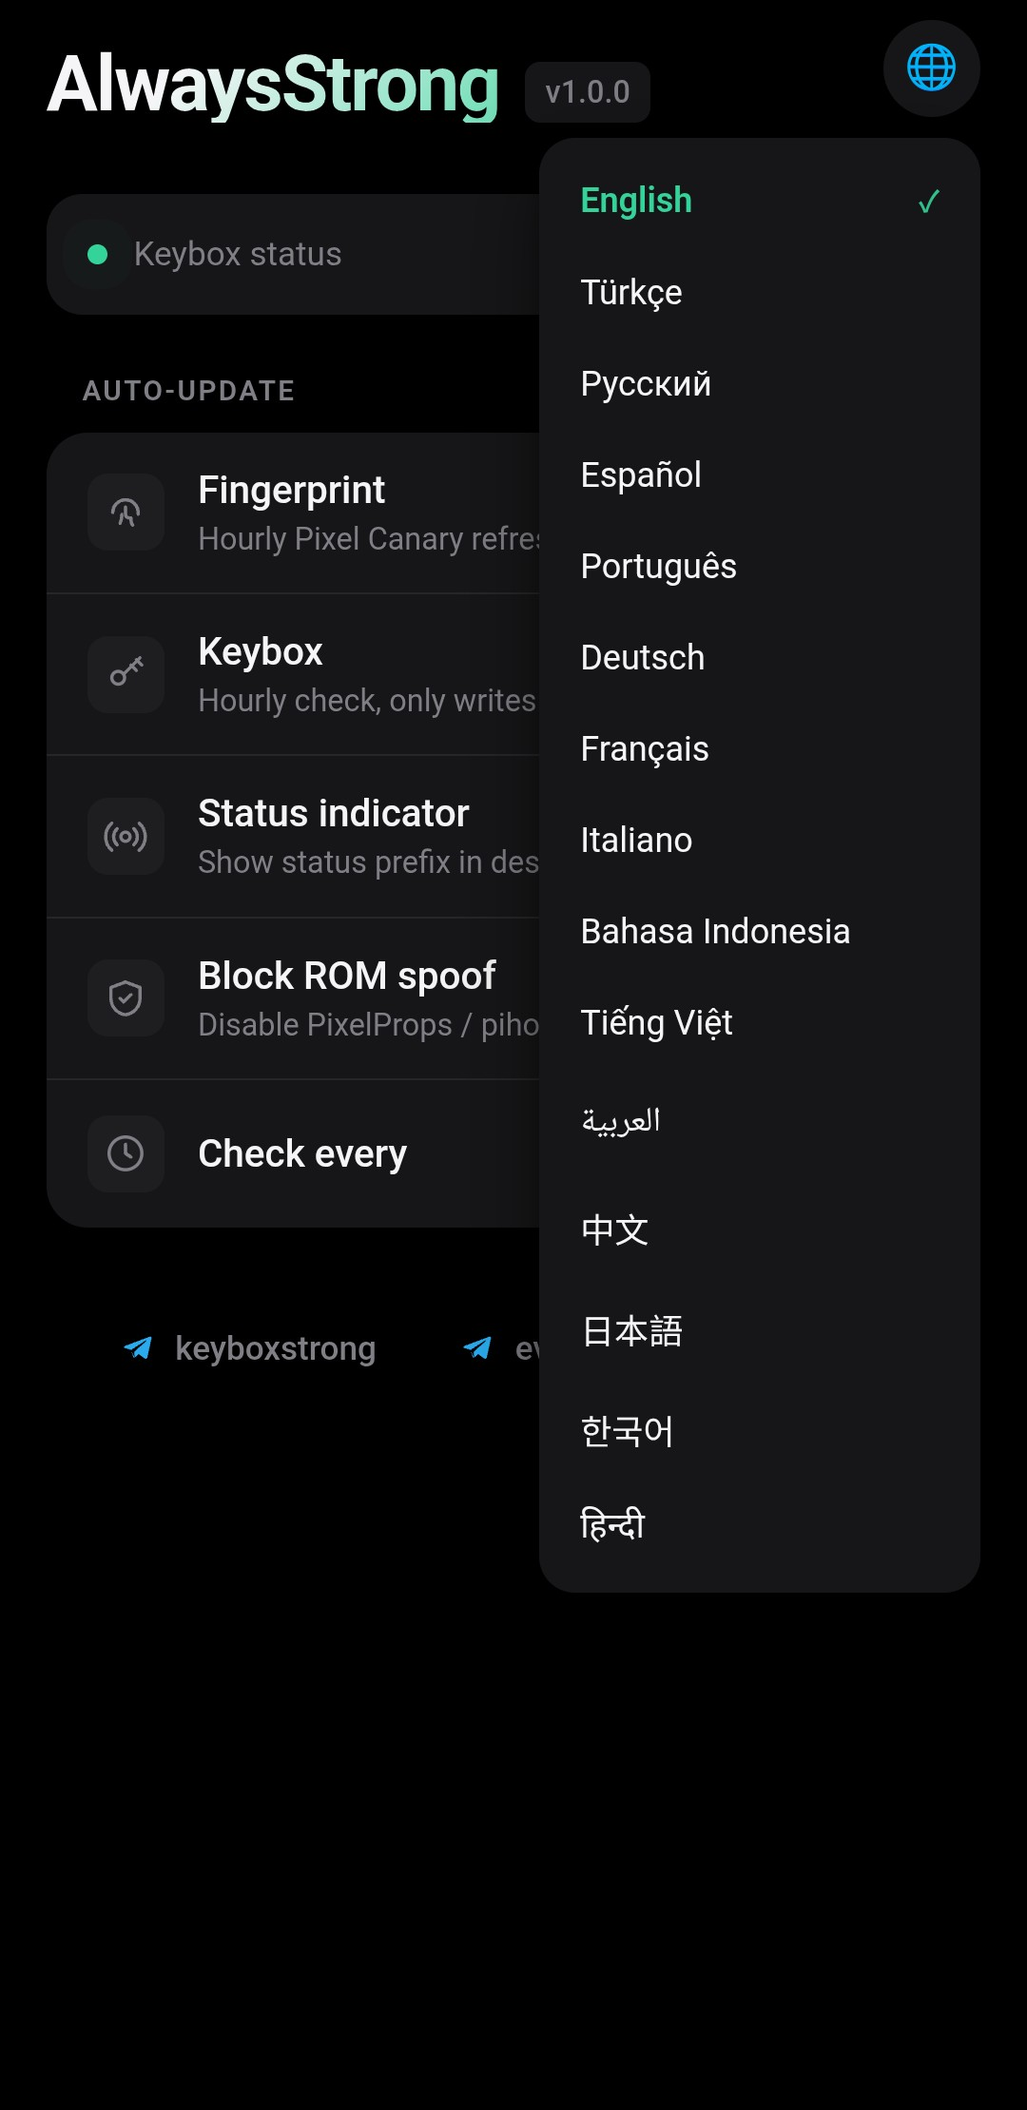
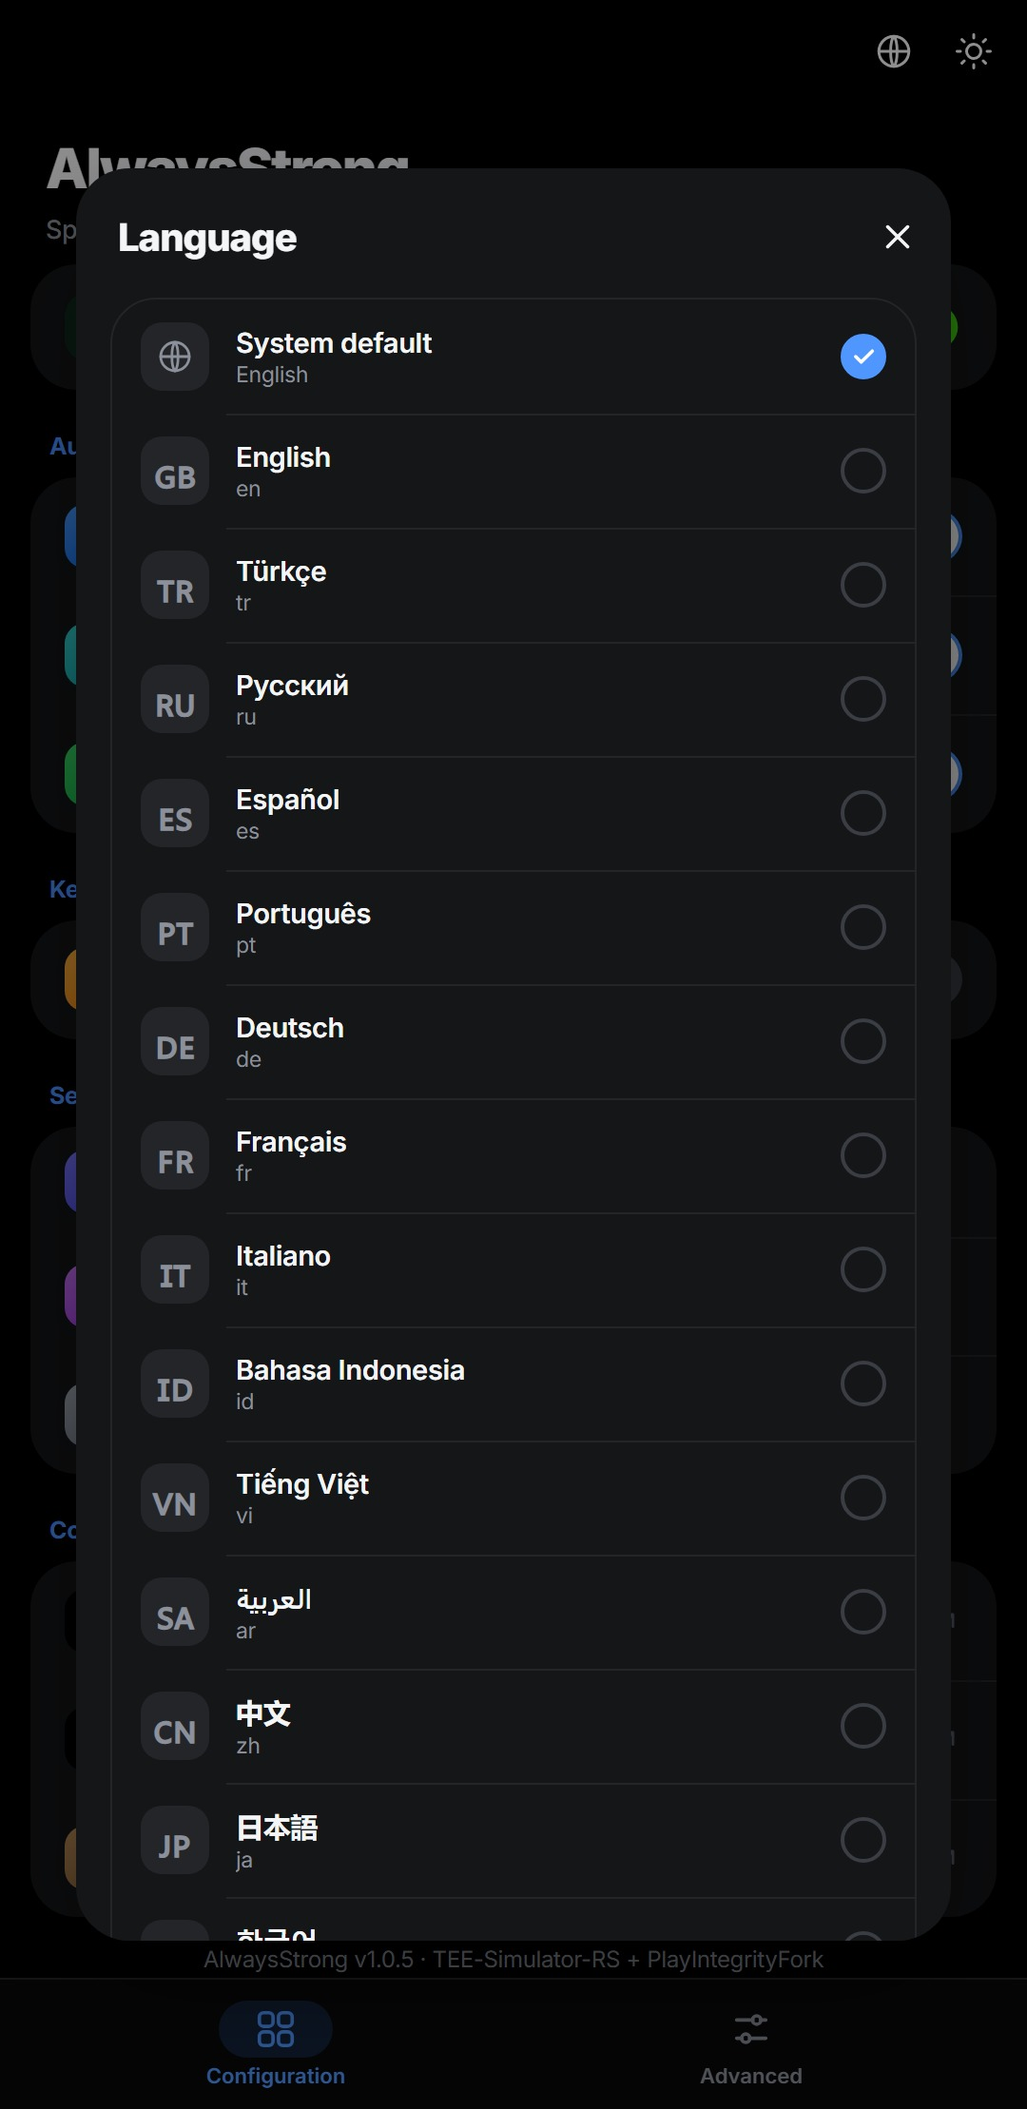
release: add v1.0.5 new-ui and upstream changelog entries, refresh screenshots, drop the one-ui naming

diff --git a/module/webroot/index.html b/module/webroot/index.html
@@ -3,14 +3,14 @@
 <head>
 <meta charset="utf-8">
 <meta name="viewport" content="width=device-width,initial-scale=1,viewport-fit=cover">
-<title>AlwaysStrong One UI</title>
+<title>AlwaysStrong</title>
 <meta name="claude:viewport-fit-sides" content="cover">
 <link rel="preconnect" href="https://fonts.googleapis.com">
 <link rel="preconnect" href="https://fonts.gstatic.com" crossorigin>
 <link rel="stylesheet" href="https://fonts.googleapis.com/css2?family=Inter:wght@400;500;600;700;800;900&display=swap">
 <style>
-/* One UI 7 language, refined (smaller, iOS/One-UI proportions): a collapsing
-   title, a search pill, iOS colour tiles, airy grouped cards, a bottom bar, a
+/* New design, refined (smaller, compact proportions): a collapsing
+   title, a search pill, colour tiles, airy grouped cards, a bottom bar, a
    Target-apps screen with a 3-dot menu that holds Security patch. No color-mix. */
 :root{
   --bg:#f2f3f5; --card:#fff; --field:#eceef2; --press:#00000008;
@@ -167,7 +167,7 @@ section[hidden]{display:none}
 .toast.show{opacity:1;transform:translateX(-50%)}
 .empty{text-align:center;color:var(--sub);font-size:14px;font-weight:500;padding:40px 20px;display:none}
 
-/* ---- One UI popup dialogs (Target apps + Security patch), centred ---- */
+/* ---- popup dialogs (Target apps + Security patch), centred ---- */
 .modal{position:fixed;inset:0;z-index:60;display:grid;place-items:center;padding:20px;
   padding-top:max(20px,env(safe-area-inset-top,0px));padding-bottom:max(20px,env(safe-area-inset-bottom,0px));
   background:rgba(0,0,0,.42);opacity:0;pointer-events:none;transition:opacity .2s}
@@ -590,7 +590,7 @@ section[hidden]{display:none}
   // webview may never run while it is still rendering hidden.
   try{ var _app=document.querySelector(".app"); if(_app) requestAnimationFrame(function(){ _app.classList.add("ready"); }); }catch(e){}
   // ============================================================
-  //  AlwaysStrong WebUI engine, wired under the One UI design.
+  //  AlwaysStrong WebUI engine, wired under the new design.
   //  Element selection is by the mock's own data-k / id / class, so
   //  the markup stays pixel-identical; only behaviour is added.
   // ============================================================
@@ -1149,7 +1149,7 @@ section[hidden]{display:none}
   function fmSavePath(){ if(_fmPathT) clearTimeout(_fmPathT); _fmPathT=setTimeout(function(){ fmSaved=fmPath; deferBg("sh "+shq(STORE)+" state-set fm_path "+shq(fmPath)); },300); }
   function fmNav(){ fmSavePath(); fetchDir(fmPath).then(function(items){ fmItems=items; fmRender(items); }); }
   function fmBack(){ if(fmPath==="/") return; fmPath=fmPath.replace(/\/[^/]*$/,"")||"/"; fmNav(); }
-  // ---- sort + filter popups (One UI dropdowns) ----
+  // ---- sort + filter popups (dropdowns) ----
   var FM_ASC='<path d="M7 20V7m0 0-4 4m4-4 4 4"/><path d="M14 8h6M14 13h4M14 18h2"/>';
   var FM_DESC='<path d="M7 4v13m0 0-4-4m4 4 4-4"/><path d="M14 8h6M14 13h4M14 18h2"/>';
   var CARET_UP='<svg viewBox="0 0 24 24" fill="none" stroke="currentColor" stroke-width="2.4" stroke-linecap="round" stroke-linejoin="round"><path d="m6 15 6-6 6 6"/></svg>';
@@ -1230,7 +1230,7 @@ section[hidden]{display:none}
       else toast(tr("rst_fail","Reset failed, run reset_defaults.sh via root shell"),3500); }); });
 
 
-  // ---- i18n: translate the One UI labels; English keeps the mock text ----
+  // ---- i18n: translate the UI labels; English keeps the mock text ----
   var AS_I={
     en:{t_kb_deleted:"Keybox deleted",fm_s_name:"Name",fm_s_date:"Date",fm_s_size:"Size",fm_s_type:"Type",fm_all:"All files",u_min:"min",u_h:"h",v_auto:"auto",spoofing:"Spoofing",kb_auto:"Auto check",t_applied:"Applied ✅",t_applying:"Applying",t_back_kb:"Back to automatic keybox",t_back_fp:"Back to automatic fingerprint",t_applied_next:"Applied on next refresh",t_log_timeout:"Log collection timed out",t_kb_imported:"Keybox imported:",t_kb_selected:"Keybox selected:",ck_selk:"Selected keybox",t_no_apps:"No apps",fm_sel_fp:"Select fingerprint",fm_sel_kb:"Select keybox",wv_run:"Run",wv_running:"Running…",wv_tap_again:"Tap again",wv_perm:"PERMANENT and cannot be reverted. Tap again to confirm.",wv_installed:"L1 keybox installed. Reinstall Netflix to apply.",wv_failed:"Failed, see logs",wv_ok:"Widevine L1 keybox installed",wv_fail_toast:"Widevine fix failed",wv_unsup:"Not supported on this device",wv_unsup2:"KmInstallKeybox not present, this device is not supported",sec_auto:"Automatic",sec_set:"Settings",sec_comm:"Community & support",sec_fpsrc:"Fingerprint source",sec_media:"Media",sec_target:"Targeting",wv_t:"Widevine L1 fix",wv_s:"Qualcomm only · tap to restore L1",at_t:"Auto targeting",at_s:"Add newly installed apps to the target list automatically",iv_title:"Check interval",iv_desc:"How often AlwaysStrong re-checks the keybox and fingerprint.",iv_min:"Minutes",done:"Done",cfg_mode:"Attestation mode",cfg_auto_s:"Let the keystore decide",cfg_gen_s:"Build the whole certificate chain",cfg_hack_s:"Patch only the leaf certificate",cfg_default:"Default",kbp_sel:"Select",add:"Add",pkg_desc:"Add a package that isn't listed, by its application id.",fm_title:"Select file",beta_t:"Beta fingerprints",beta_s:"Only Pixel 6a (bluejay) passes STRONG",patch_fill:"Fill from fingerprint",patch_desc:"The attested patch follows the fingerprint. Override a partition only if an app needs it.",spp_s2:"Match attestation to the fingerprint",tgt_s:"Apps, mode, keybox & security patch",logs_s:"Save a diagnostic bundle",comm_s1:"Telegram channel · keyboxes & updates",comm_s2:"Telegram · news & support",coffee_t:"Buy me a coffee",coffee_s:"Support development",lang_title:"Language",auto:"Configuration",fp_t:"Fingerprint",fp_s:"Automatic Pixel Canary refresh",kb_t:"Keybox",kb_s:"Auto check, writes only if newer",status:"Keybox status",ind_t:"Status indicator",ind_s:"Show status prefix in description",rs_t:"Block ROM spoof",rs_s:"Disable PixelProps / pihooks engines",int_t:"Check every",donate:"Donate",ckbx:"Custom keybox",ck_t:"Custom keybox",ck_s:"Use your own keybox, auto-fetch off",ck_pick:"Select keybox file",ck_none:"No file selected",ck_have:"keybox.xml",ck_bad:"Not a valid keybox",ck_sel:"Selected keybox:",fm_new:"Newest",fm_old:"Oldest",fm_empty:"Empty folder",fm_cancel:"Cancel",pak:"Target apps",pak_t:"Target apps",pak_s:"Choose apps, mode & keybox",pak_search:"Search apps",pak_default:"Default keybox",pak_import:"Import keybox file…",pak_mode:"Mode",pak_auto:"Auto",pak_auto_s:"Let AlwaysStrong decide",pak_gen:"Generate",pak_gen_s:"Generate the full cert chain (!)",pak_hack:"Hack",pak_hack_s:"Hack the leaf cert (?)",pak_keybox:"Keybox",pak_apply:"Apply",pak_ok:"OK",logs:"Collect logs",logs_run:"Collecting…",logs_done:"Saved:",logs_fail:"Failed, run via root shell",logs_slow:"Still running, check /sdcard",tab_main:"Configuration",tab_adv:"Advanced",adv:"Advanced",spoofvars:"Spoof variables",pak_menu:"Menu",pak_selall:"Select all",pak_unnec:"Deselect unnecessary",pak_add_dlg:"Add custom package",pak_add_ph2:"package.name",pak_selall_done:"All apps selected",pak_unnec_done:"Deselected unnecessary apps",adv_note:"These are for edge cases. Leave them default unless an app needs it, the defaults are what pass STRONG.",theme:"Theme",th_sys:"System",th_light:"Light",th_dark:"Dark",ind_fetch:"Fetching status…",ind_ok:"Status indicator restored",ind_fail:"Status not fetched, no connection? The hourly check adds it back",spf_t:"Spoof system props",spf_s:"Turn off if a wallet/bank app fails",imp_t:"Import fingerprint",imp_s:"Load a pif.json or pif.prop file",hrm_t:"Hide ROM identity",hrm_s:"Also hides ROM version & fast-charge toggle",spp_t:"Spoof security patch",spp_s:"Also write the patch to the device props (Settings & apps); off keeps the real date",patch:"Security patch",psys_t:"System",pven_t:"Vendor",pboot_t:"Boot",patch_note:"Leave a field empty for the automatic latest date. Format YYYY-MM-DD.",patch_bad:"Use YYYY-MM-DD, or leave empty for automatic",getp_t:"Get security patch",getp_s:"Fill the fields from the active fingerprint",getp_ok:"Security patch set:",getp_none:"No patch in the active fingerprint, set one first",applied:"Applied, restarting Play Integrity",imp_run:"Importing…",imp_ok:"Fingerprint imported",imp_bad:"Import failed",imp_none:"Not a pif.json / pif.prop file",pak_add:"Add custom package",pak_add_ph:"com.example.app",pak_add_bad:"Enter a valid package name",rst:"Reset",rst_t:"Reset to defaults",rst_s:"Undo every toggle here and re-run Action",rst_dlg:"Reset to defaults?",rst_body:"All toggles, spoof variables, the check interval and custom packages go back to the fresh-install defaults, and the fetched fingerprint replaces an imported one. Your keybox and per-app keybox assignments are kept. Action then runs again.",rst_ok:"Reset",rst_done:"Defaults restored, Action running",rst_fail:"Reset failed, run reset_defaults.sh via root shell"},
     tr:{t_kb_deleted:"Keybox silindi",fm_s_name:"Ad",fm_s_date:"Tarih",fm_s_size:"Boyut",fm_s_type:"Tür",fm_all:"Tüm dosyalar",u_min:"dk",u_h:"sa",v_auto:"oto",spoofing:"Taklit",kb_auto:"Otomatik kontrol",t_applied:"Uygulandı ✅",t_applying:"Uygulanıyor",t_back_kb:"Otomatik keybox'a dönüldü",t_back_fp:"Otomatik fingerprint'e dönüldü",t_applied_next:"Sonraki yenilemede uygulanır",t_log_timeout:"Log toplama zaman aşımına uğradı",t_kb_imported:"Keybox içe aktarıldı:",t_kb_selected:"Keybox seçildi:",ck_selk:"Seçili keybox",t_no_apps:"Uygulama yok",fm_sel_fp:"Fingerprint seç",fm_sel_kb:"Keybox seç",wv_run:"Çalıştır",wv_running:"Çalışıyor…",wv_tap_again:"Tekrar dokun",wv_perm:"KALICIDIR ve geri alınamaz. Onaylamak için tekrar dokun.",wv_installed:"L1 keybox kuruldu. Uygulamak için Netflix'i yeniden kur.",wv_failed:"Başarısız, loglara bak",wv_ok:"Widevine L1 keybox kuruldu",wv_fail_toast:"Widevine düzeltmesi başarısız",wv_unsup:"Bu cihazda desteklenmiyor",wv_unsup2:"KmInstallKeybox yok, bu cihaz desteklenmiyor",sec_auto:"Otomatik",sec_set:"Ayarlar",sec_comm:"Topluluk & destek",sec_fpsrc:"Fingerprint kaynağı",sec_media:"Medya",sec_target:"Hedefleme",wv_t:"Widevine L1 düzeltmesi",wv_s:"Yalnızca Qualcomm · L1 için dokun",at_t:"Otomatik hedefleme",at_s:"Yeni kurulan uygulamaları hedef listesine otomatik ekle",iv_title:"Kontrol aralığı",iv_desc:"AlwaysStrong'un keybox ve fingerprint'i ne sıklıkla yeniden kontrol edeceği.",iv_min:"Dakika",done:"Tamam",cfg_mode:"Attestation modu",cfg_auto_s:"Kararı keystore versin",cfg_gen_s:"Tüm sertifika zincirini oluştur",cfg_hack_s:"Yalnızca leaf sertifikayı yamala",cfg_default:"Varsayılan",kbp_sel:"Seç",add:"Ekle",pkg_desc:"Listede olmayan bir paketi uygulama kimliğiyle ekle.",fm_title:"Dosya seç",beta_t:"Beta fingerprint'ler",beta_s:"Yalnızca Pixel 6a (bluejay) STRONG'u geçer",patch_fill:"Fingerprint'ten doldur",patch_desc:"Doğrulanan yama fingerprint'i izler. Bir bölümü yalnızca bir uygulama gerektirirse geçersiz kıl.",spp_s2:"Attestation'ı fingerprint'e eşitle",tgt_s:"Uygulama, mod, keybox & güvenlik yaması",logs_s:"Tanılama paketi kaydet",comm_s1:"Telegram kanalı · keybox'lar & güncellemeler",comm_s2:"Telegram · haber & destek",coffee_t:"Bana kahve ısmarla",coffee_s:"Geliştirmeyi destekle",lang_title:"Dil",auto:"Yapılandırma",fp_t:"Fingerprint",fp_s:"Otomatik Pixel Canary yenileme",kb_t:"Keybox",kb_s:"Otomatik kontrol, sadece yeniyse yazar",status:"Keybox durumu",ind_t:"Durum göstergesi",ind_s:"Açıklamada durum öneki göster",rs_t:"ROM spoofunu engelle",rs_s:"PixelProps / pihooks motorlarını kapat",int_t:"Kontrol aralığı",donate:"Bağış",ckbx:"Özel keybox",ck_t:"Özel keybox",ck_s:"Kendi keyboxını kullan, oto çekme kapalı",ck_pick:"Keybox dosyası seç",ck_none:"Dosya seçilmedi",ck_have:"keybox.xml",ck_bad:"Geçerli keybox değil",ck_sel:"Seçili keybox:",fm_new:"En yeni",fm_old:"En eski",fm_empty:"Boş klasör",fm_cancel:"İptal",pak:"Hedef uygulamalar",pak_t:"Hedef uygulamalar",pak_s:"Uygulama, mod & keybox seç",pak_search:"Uygulama ara",pak_default:"Varsayılan keybox",pak_import:"Keybox dosyası içe aktar…",pak_mode:"Mod",pak_auto:"Oto",pak_auto_s:"AlwaysStrong karar versin",pak_gen:"Üret (Generate)",pak_gen_s:"Tüm sertifika zincirini üret (!)",pak_hack:"Hack",pak_hack_s:"Leaf sertifikayı değiştir (?)",pak_keybox:"Keybox",pak_apply:"Uygula",pak_ok:"Tamam",logs:"Log topla",logs_run:"Toplanıyor…",logs_done:"Kaydedildi:",logs_fail:"Başarısız, root shell'den çalıştır",logs_slow:"Hâlâ çalışıyor, /sdcard klasörüne bak",tab_main:"Yapılandırma",tab_adv:"Gelişmiş",adv:"Gelişmiş",spoofvars:"Spoof değişkenleri",pak_menu:"Menü",pak_selall:"Tümünü seç",pak_unnec:"Gereksizleri kaldır",pak_add_dlg:"Özel paket ekle",pak_add_ph2:"paket.adi",pak_selall_done:"Tüm uygulamalar seçildi",pak_unnec_done:"Gereksiz uygulamalar kaldırıldı",adv_note:"Bunlar istisnai durumlar içindir. Bir uygulama gerektirmedikçe varsayılan bırakın, STRONG'u geçiren varsayılanlardır.",theme:"Tema",th_sys:"Sistem",th_light:"Açık",th_dark:"Koyu",ind_fetch:"Durum alınıyor…",ind_ok:"Durum göstergesi geri geldi",ind_fail:"Durum alınamadı, internet yok mu? Saatlik kontrol geri ekler",spf_t:"Sistem proplarını spoofla",spf_s:"Cüzdan/banka uygulaman çalışmıyorsa kapat",imp_t:"Fingerprint içe aktar",imp_s:"pif.json veya pif.prop dosyası yükle",hrm_t:"ROM kimliğini gizle",hrm_s:"ROM sürümünü ve hızlı şarj anahtarını da gizler",spp_t:"Güvenlik yamasını spoofla",spp_s:"Yamayı cihaz özelliklerine de yazar (Ayarlar & uygulamalar); kapalıyken gerçek tarih kalır",patch:"Güvenlik yaması",psys_t:"System",pven_t:"Vendor",pboot_t:"Boot",patch_note:"Otomatik en güncel tarih için alanı boş bırakın. Biçim: YYYY-AA-GG.",patch_bad:"YYYY-AA-GG kullanın veya otomatik için boş bırakın",getp_t:"Güvenlik yamasını al",getp_s:"Alanları aktif fingerprint'ten doldur",getp_ok:"Güvenlik yaması:",getp_none:"Aktif fingerprint'te yama yok, önce fingerprint ayarla",applied:"Uygulandı, Play Integrity yeniden başlatılıyor",imp_run:"İçe aktarılıyor…",imp_ok:"Fingerprint içe aktarıldı",imp_bad:"İçe aktarma başarısız",imp_none:"pif.json / pif.prop dosyası değil",pak_add:"Özel paket ekle",pak_add_ph:"com.example.app",pak_add_bad:"Geçerli bir paket adı gir",rst:"Sıfırla",rst_t:"Varsayılanlara dön",rst_s:"Buradaki tüm ayarları geri al ve Action'ı yeniden çalıştır",rst_dlg:"Varsayılanlara dönülsün mü?",rst_body:"Tüm anahtarlar, spoof değişkenleri, kontrol aralığı ve özel paketler ilk kurulum değerlerine döner; indirilen fingerprint içe aktarılanın yerini alır. Keybox'ın ve uygulama başına keybox atamaların korunur. Ardından Action yeniden çalışır.",rst_ok:"Sıfırla",rst_done:"Varsayılanlar geri yüklendi, Action çalışıyor",rst_fail:"Sıfırlama başarısız, reset_defaults.sh'ı root kabuğundan çalıştır"},

diff --git a/CHANGELOG.md b/CHANGELOG.md
@@ -7,11 +7,15 @@
 - **Pick a beta fingerprint in the WebUI.** Advanced → a new picker lists Google's current Pixel beta/canary fingerprints and imports the one you choose. Devices that can still reach STRONG — the ones that actually shipped on Android 12 or earlier (the Pixel 6 series) — are badged **STRONG** and sorted to the top, because Google now cross-checks the claimed first-API level against the device's real launch OS and a newer device reads as inconsistent.
 - **Import your own fingerprint, keep its name.** A dropped `pif.json` / `pif.prop` is imported as the active fingerprint (the auto-refresh steps aside), and the WebUI shows its device name with a button to revert to automatic. A complete `custom.pif.prop` is now used as-is on the Fork build instead of being rejected by the migrator.
 - **"Get security patch" button.** Advanced → Security patch reads the active fingerprint's own patch date and fills the System / Vendor / Boot fields for you, so you don't type them.
+- **Widevine L1 keybox restore (opt-in).** Advanced → restores Widevine L1 on Qualcomm devices that lost it.
 
 **Changed**
+- **The WebUI has a new design.** Redrawn panel; the file picker now sorts, filters to `.xml`, and remembers the last folder.
 - **The attested security patch follows the fingerprint.** The patch level written to the props and to the attestation is now the active fingerprint's own `SECURITY_PATCH`, applied verbatim to each of system / vendor / boot, instead of being bumped to the current month. A Pixel fingerprint attests one specific date; if the props disagree with it the verdict drops from STRONG, so the two are kept identical. Per-partition manual overrides are still available in the same card (empty = the fingerprint's date).
 - **Releases are verifiable.** Every release now carries a `SHA256SUMS.txt` with the sha256 of each zip, checkable with `sha256sum -c SHA256SUMS.txt`, and the same hashes appear in the release notes. The two shipped native binaries, `asfetch` and `aswatcher`, are listed there too, and the **Native binaries** workflow now rebuilds *both* from source on a runner (it only did `asfetch` before), printing the rebuilt hashes next to the committed ones and reporting whether they match. See **Verifying a download** in the README.
 - **WebUI theme picker**: a new button next to the language button chooses System / Light / Dark. The choice is remembered and applied before the first paint, so a forced theme never flashes the system one.
+- **Automatic and manual fingerprint are mutually exclusive.** Turning Fingerprint on drops a picked or imported one; picking a beta or importing your own turns it off.
+- **The Action is faster on a manual tap.** The cosmetic pauses between steps are trimmed; the bounded network work is unchanged.
 
 **Changed**
 - **Nightly builds run when the module changes, not on a timer.** The workflow fired on every push to `main` — a README fix, a CHANGELOG entry or the `update.json` commit a release pushes all spent a full nine-variant run — and again every night on an unchanged tree. It now triggers on the paths a zip is actually made of (and on pull requests touching them), the way the rest of the TrickyStore family gates its builds; none of them builds on a schedule either. Artifacts are kept for 90 days instead of 30, so the nightly.link URLs survive a quiet stretch on `main`.
@@ -42,6 +46,9 @@
 - **Action no longer reports "keybox ok" on a fresh install without internet.** The installer seeds the upstream demo keybox so the engine has something to load, and Action only checked that a keybox-looking file existed. It now asks the mirror every tap: offline shows `no internet — keybox not fetched`, online the fetch runs and the result is what the server said (`keybox updated`, `keybox ok` when the file on disk matches the served one, or `keybox fetch failed`).
 - **TEESimulator (JingMatrix) build**: a refreshed keybox and target-list changes now reach the engine immediately. Its daemon only watches `/data/adb/teesim`, where our keybox is a symlink into `/data/adb/tricky_store`, so it never saw the hourly / Action keybox refresh and a fresh install could sit without a keybox until the first hourly tick. The keybox fetcher and the target builder now tell the engine to reload (no-op on TEESimulator-RS / TrickyStoreOSS, which watch the directory themselves).
 - **Collect logs** now records what the verdict actually depends on: SELinux mode (flagged loudly when permissive — Play Integrity cannot pass in that state), the real verified-boot / bootloader state from the kernel command line (the props are pinned by the module, so they always looked green), build type and tags, `ro.debuggable`, CPU ABI list, first API level, clock sanity, Magisk / KSU / APatch versions, built-in Zygisk, denylist and Zygisk-provider state, every installed module with its state, Google Play Services and Play Store versions, PlayIntegrityFork / Fix logcat lines (proof the spoof reached GMS), whether the engine library is actually mapped inside `keystore2`, SELinux denials around keystore, the fingerprint file the zygisk really reads (hashed against the display copy), security-patch coherence across all sources, keybox shape (cert / key counts, still no contents), the WebUI flag files, the on-disk module logs, and the JingMatrix TEESimulator symlink / config (identity fields redacted). Every network and IPC probe is time-bounded so the button can no longer hang. The misleading `daemon: not running` line is replaced by the engine's real process name.
+
+**Upstream**
+- PlayIntegrityFork CI #623 (post-v18, with the Canary-print fixes), PlayIntegrityFix inject-s v4.9 (from v4.7). TEESimulator-RS kept at v6.0.1-307 per the Telegram poll.
 
 ## v1.0.4
 
